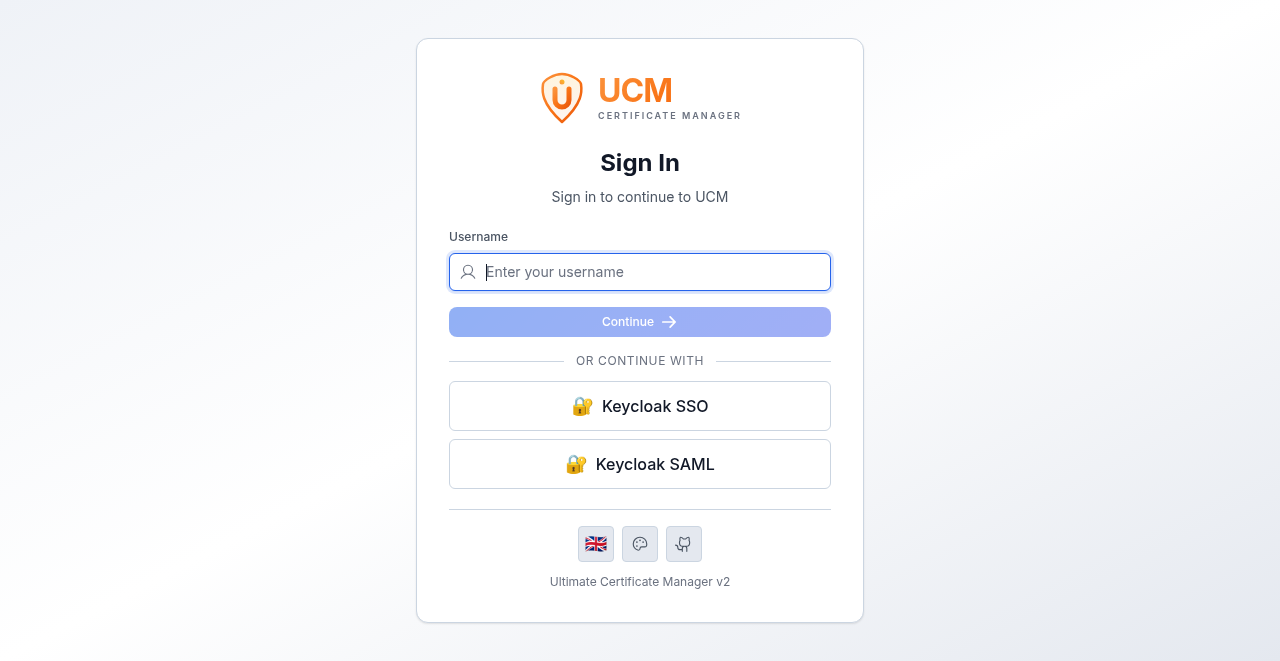
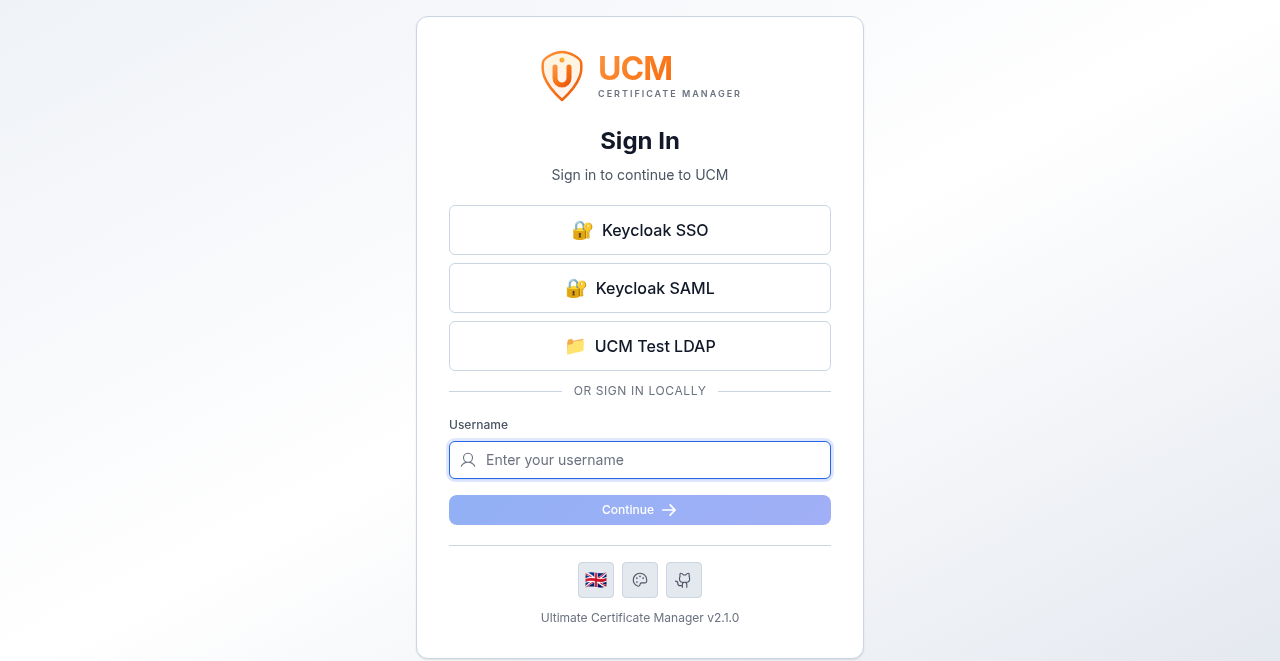
docs: update CHANGELOG, README, API docs, screenshots for v2.1.0 release

Changed region(s): [[0.3438, 0.0605, 0.6562, 0.9682]]

diff --git a/CHANGELOG.md b/CHANGELOG.md
@@ -7,6 +7,59 @@ and this project adheres to [Semantic Versioning](https://semver.org/spec/v2.0.0
 
 ---
 
+## [2.1.0] - 2026-02-19
+
+### Added
+- **Auditor role** — new `auditor` system role with read-only access to all operational data (certificates, CAs, CSRs, templates, truststore, ACME, audit logs, reports, policies, approvals) except settings and user management
+- **SSO settings restructure** — collapsible sections for Connection, User Search, Groups & Role Mapping, and Provisioning
+- **LDAP Test Connection and Test Mapping buttons** — verify LDAP connectivity and attribute mapping from the SSO settings UI
+- **OAuth2 provider presets** — one-click configuration for Microsoft Entra, Google, and GitHub
+- **SSO provider card layout** — 1 provider per type limit with 3-card layout (LDAP, OAuth2, SAML)
+- **Login page SSO buttons** — SSO authentication buttons shown before local auth form with "or sign in locally" separator
+- **Dynamic version display on login page** — reads version from VERSION file
+- **ESLint linter** for frontend — catches stale closures, undefined variables, hook violations
+- **Ruff linter** for backend — catches undefined names, import errors, security issues
+- **Login method persistence** — remembers username + auth method (LDAP/password) across sessions
+- **SAML SP certificate selector** — choose which certificate to include in SP metadata
+- **LDAP directory presets** — OpenLDAP, Active Directory, Custom templates
+- `npm run lint` and `npm run lint:fix` scripts
+
+### Changed
+- Renamed RBAC system role "User" → "Viewer"
+- Restricted `viewer` role permissions to certificates, CAs, CSRs, templates, and truststore only
+- Migration 036: rename User role to Viewer, add Auditor role
+- Updated all badge/avatar color mappings for auditor role (orange)
+- Updated help content, guides, and all 9 locale files
+- Consistent SAML metadata URLs (no provider ID needed)
+- SSO service layer extracted to `sso.service.js`
+- LDAP sessions deduplicated (no duplicate session per login)
+- ESLint v9 with react-hooks plugin for stale closure detection
+- Ruff configured for bug-catching rules only (E/F/B/S)
+
+### Fixed
+- **LDAP group filter malformed** when user DN contains special characters (`escape_filter_chars`)
+- **17 bugs found by linters**: undefined variables, missing imports, conditional hooks
+  - `CAsPage.jsx`: `loadData()` → `loadCAs()` (undefined function)
+  - `SettingsPage.jsx`: `waitForRestart` undefined (missing hook)
+  - `FloatingDetailWindow.jsx`: conditional `useEffect` (rules-of-hooks violation)
+  - `freedns.py`: 6× `requests` module used without import
+  - `cert_service.py`: `logger` used without definition
+  - `certificate_parser.py`: `serialization` + `logger` missing imports
+- **CSRF token not stored** on multi-method login — caused 403 on POST/PUT/DELETE
+- **Select dropdown hidden behind modals** — Radix portal z-index fix
+- **Copy button closing SSO modal** — missing `type="button"`
+- **SAML SP metadata schema-invalid** — now uses python3-saml builder
+- **Auth contract inconsistency** — LDAP login now returns permissions/role/csrf_token
+
+### Security
+- SSO rate limiting on LDAP login attempts with account lockout
+- CSRF token validation on all SSO endpoints
+- Role validation against allowed roles list
+- Internal error details no longer leaked to API clients
+- 28 new SSO security tests
+
+---
+
 ## [2.1.0-rc8] - 2026-02-18
 
 ### Added

diff --git a/docs/ADVANCED-FEATURES.md b/docs/ADVANCED-FEATURES.md
@@ -52,7 +52,7 @@ Define granular permissions beyond the built-in roles.
 
 ### Features
 - Create custom roles with specific permissions
-- Inherit from base roles (admin, operator, viewer)
+- Inherit from base roles (admin, operator, auditor, viewer)
 - Granular permission control per resource type
 - Role hierarchy with permission inheritance
 

diff --git a/docs/API_REFERENCE.md b/docs/API_REFERENCE.md
@@ -1281,7 +1281,7 @@ GET /api/v2/rbac/roles
 ```json
 {
   "data": {
-    "roles": ["admin", "operator", "viewer"],
+    "roles": ["admin", "operator", "auditor", "viewer"],
     "role_permissions": {
       "admin": ["*"],
       "operator": ["read:*", "write:certificates", "write:cas", ...],
